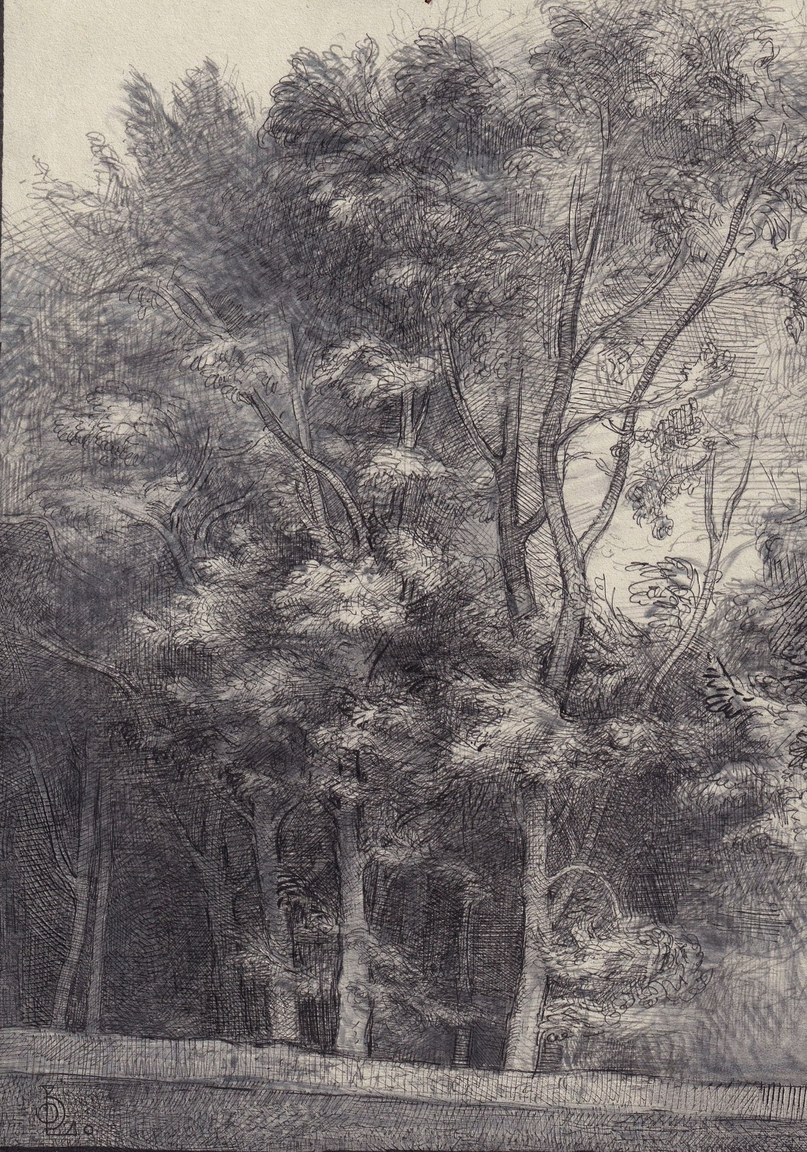
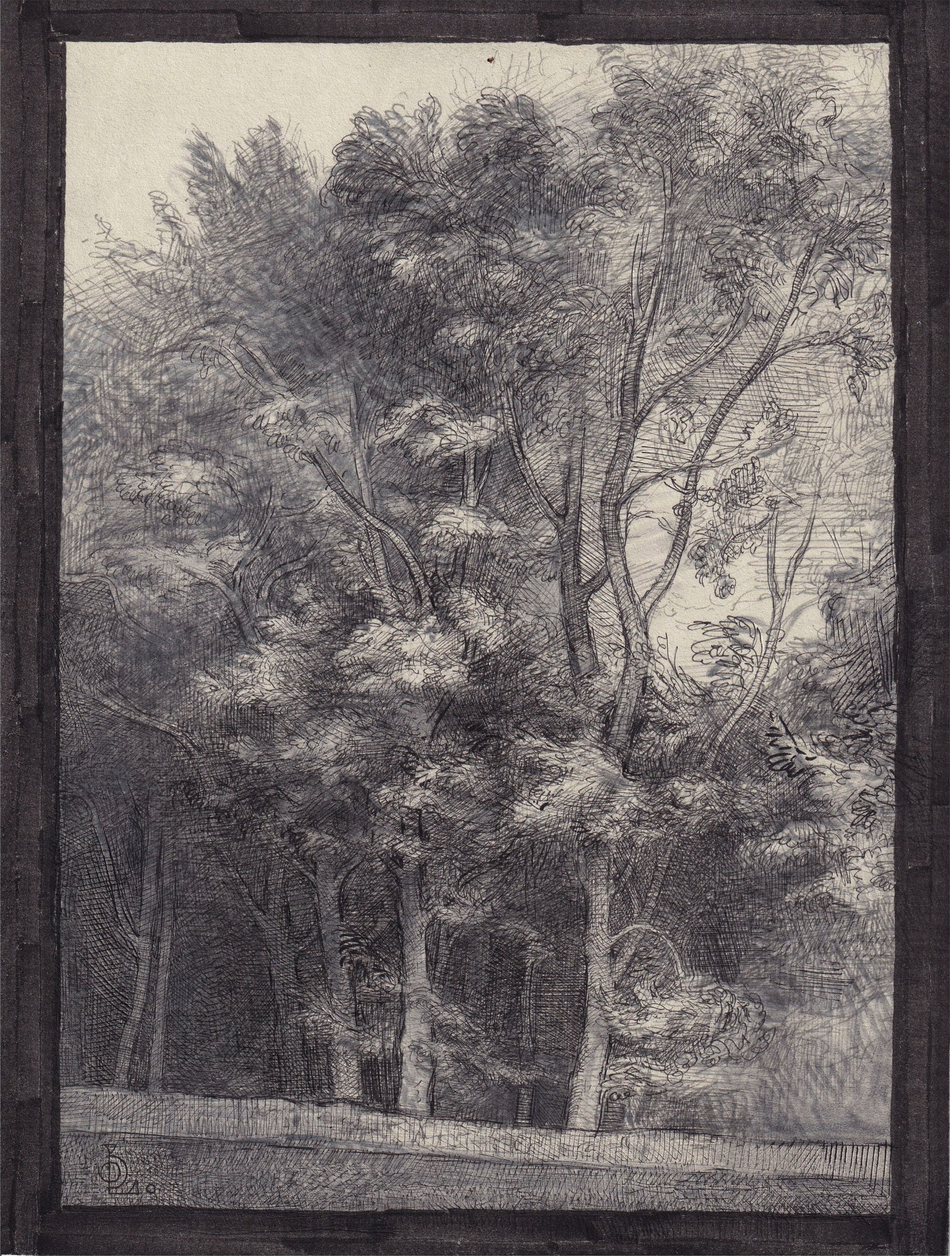
Skovbryn — zoom back out so the drawn frame is visible
Previously trimmed at threshold 120 which stripped the dark pen-drawn
border Oliver intended as part of the work. Restored original and
re-trimmed at threshold 18 — keeps the frame, just drops outermost
noise. 1735x2477 → 2042x2701. art-dims updated.

diff --git a/lib/art-dims.ts b/lib/art-dims.ts
@@ -25,7 +25,7 @@ export const artDims: Record<string, { w: number; h: number }> = {
   "/art/19-landscape-study.jpg": { w: 4289, h: 3063 },
   "/art/20-girl-and-oak.jpg": { w: 767, h: 1090 },
   "/art/21-figures-old-tree.jpg": { w: 1896, h: 2729 },
-  "/art/22-edge-of-forest.jpg": { w: 1735, h: 2477 },
+  "/art/22-edge-of-forest.jpg": { w: 2042, h: 2701 },
   "/art/23-willows.jpg": { w: 932, h: 607 },
   "/art/24-old-tree.jpg": { w: 844, h: 578 },
   "/art/25-pastoral-scene.jpg": { w: 2162, h: 2073 },
